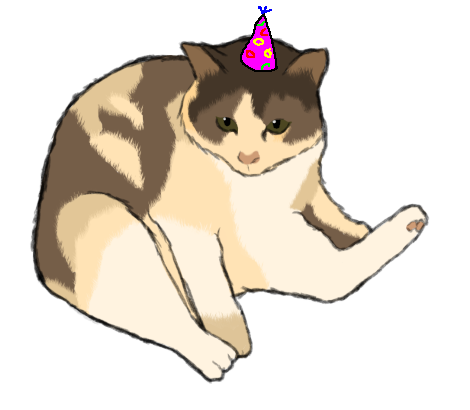
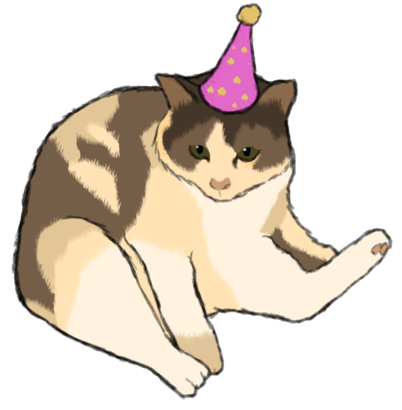
feat: add rory flat too (and holiday variants)

diff --git a/launcher/ui/pages/global/LauncherPage.cpp b/launcher/ui/pages/global/LauncherPage.cpp
@@ -341,6 +341,9 @@ void LauncherPage::applySettings()
     case 1: // rory the cat
         s->set("BackgroundCat", "rory");
         break;
+    case 2: // rory the cat flat edition
+        s->set("BackgroundCat", "rory-flat");
+        break;
     }
 
     s->set("MenuBarInsteadOfToolBar", ui->preferMenuBarCheckBox->isChecked());
@@ -439,6 +442,8 @@ void LauncherPage::loadSettings()
         ui->themeBackgroundCat->setCurrentIndex(0);
     } else if (cat == "rory") {
         ui->themeBackgroundCat->setCurrentIndex(1);
+    } else if (cat == "rory-flat") {
+        ui->themeBackgroundCat->setCurrentIndex(2);
     }
 
     {